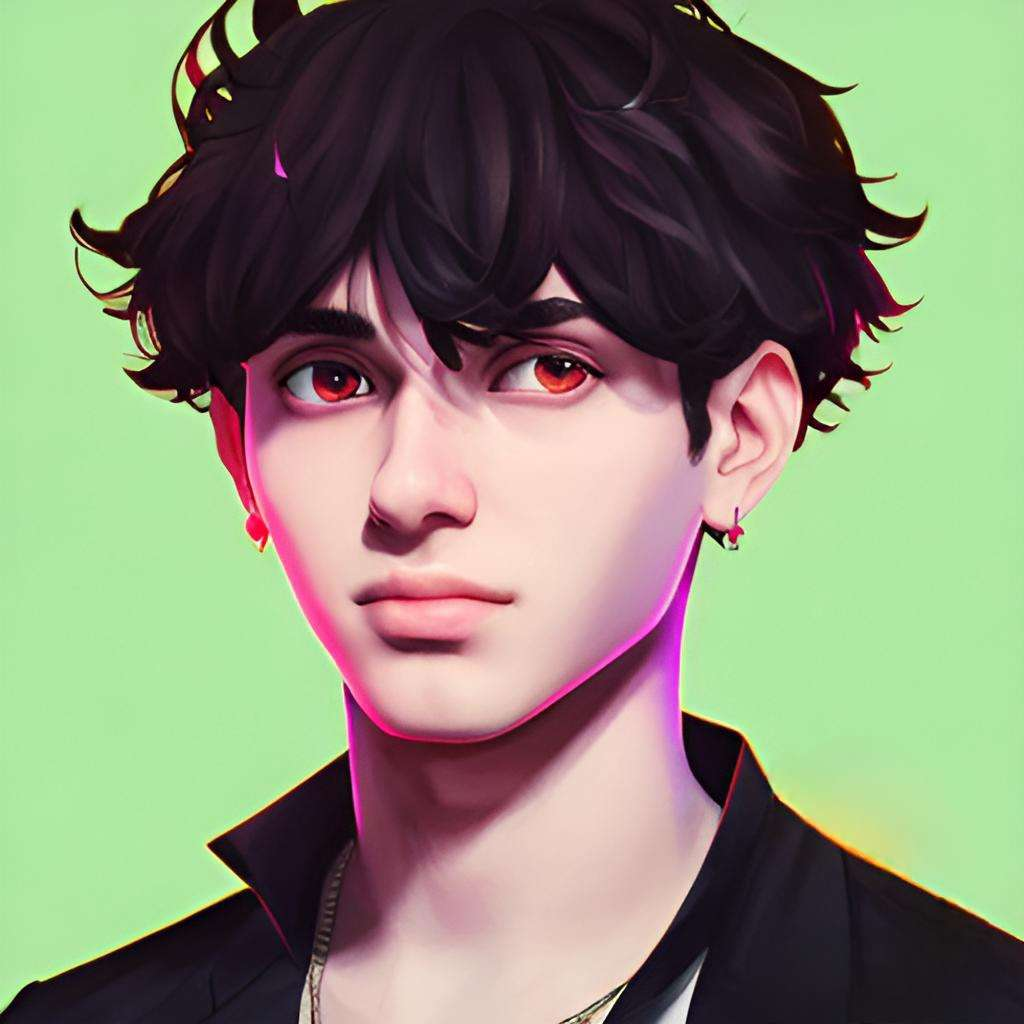
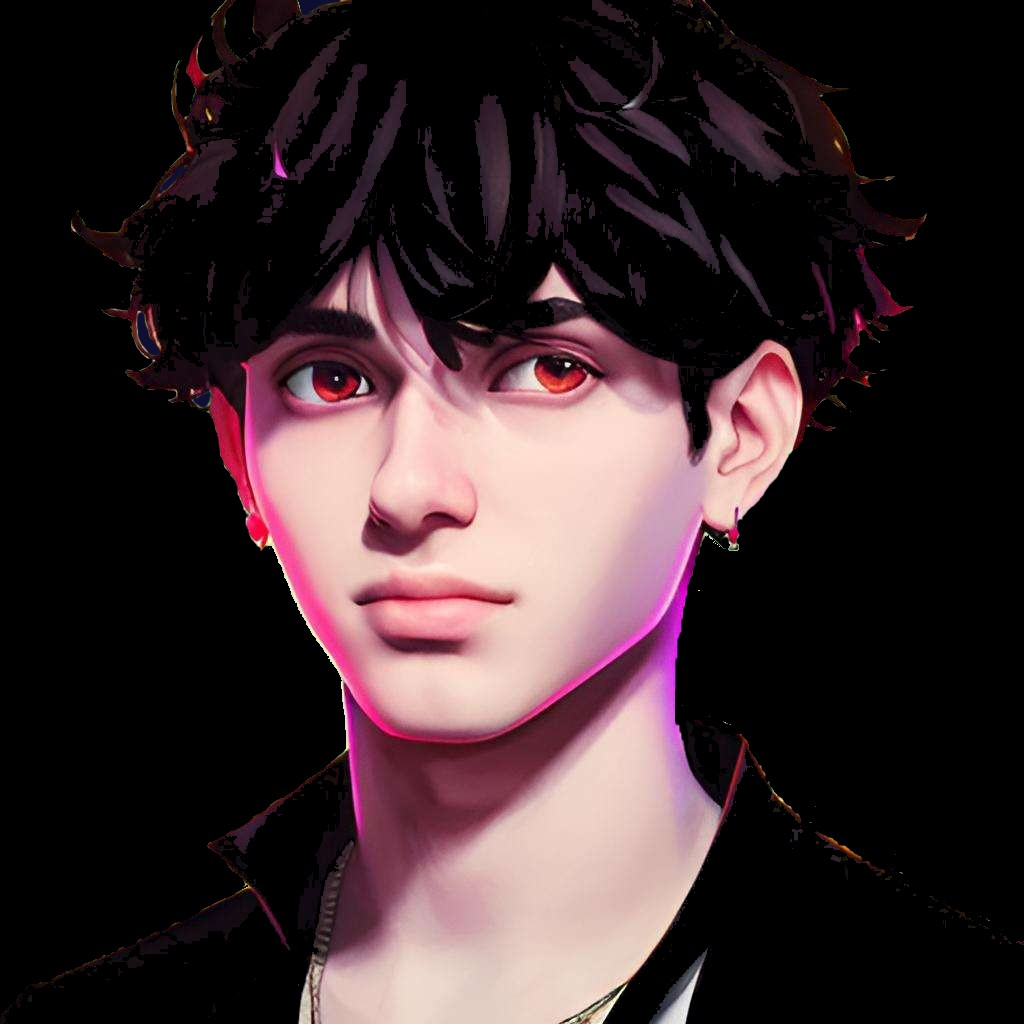
modif interface et skills

diff --git a/src/components/Skills/skills.css b/src/components/Skills/skills.css
@@ -1,0 +1,81 @@
+.container {
+    display: flex;
+    flex-direction: column;
+    justify-content: center;
+    position: relative;
+    z-index: 1;
+    align-items: center;
+    background: #0e0e33;
+
+}
+
+.wrapper {
+    position: relative;
+    display: flex;
+    justify-content: space-between;
+    align-items: center;
+    flex-direction: column;
+    width: 100%;
+    max-width: 1100px;
+    gap: 12px;
+}
+
+.desc {
+    font-size: 18px;
+    text-align: center;
+    max-width: 600px;
+    color: #1894ec;
+}
+
+.skills-container {
+    width: 100%;
+    display: flex;
+    flex-wrap: wrap;
+    margin-top: 30px;
+    gap: 30px;
+    justify-content: center;
+}
+
+.skill {
+    width: 100%;
+    max-width: 500px;
+    background: linear-gradient(180deg, #020233 0%, #3cb1ff 100%);
+    border: 1px solid #020233;
+    box-shadow: rgba(23, 92, 230, 0.15) 0px 4px 24px;
+    border-radius: 16px;
+    padding: 18px 36px;
+}
+
+.skill-title {
+    font-size: 28px;
+    font-weight: 600;
+    color: #ffffff;
+    margin-bottom: 20px;
+    text-align: center;
+}
+
+.skill-list {
+    display: flex;
+    justify-content: center;
+    flex-wrap: wrap;
+    gap: 12px;
+    margin-bottom: 20px;
+}
+
+.skill-item {
+    font-size: 16px;
+    font-weight: 400;
+    color: #ffffff;
+    border: 1px solid #666;
+    border-radius: 12px;
+    padding: 12px 16px;
+    display: flex;
+    align-items: center;
+    justify-content: center;
+    gap: 8px;
+}
+
+.skill-image {
+    width: 24px;
+    height: 24px;
+}

diff --git a/src/components/Skills/index.js b/src/components/Skills/index.js
@@ -1,8 +1,31 @@
-import React from "react";
+import React from 'react';
+import "./skills.css";
+import { skills } from '../../data/constants';
 
 const Skills = () => {
-    return <div>Skills</div>;
-    
-    };
+    return (
+        <div className="container" id="skills">
+            <div className="wrapper">
+                <div className="title">Skills</div>
+                <div className="desc">Here are some of my skills on which I have been working on for the past 2 years.</div>
+                <div className="skills-container">
+                    {skills.map((skill, index) => (
+                        <div className="skill" key={index}>
+                            <h2 className="skill-title">{skill.title}</h2>
+                            <div className="skill-list">
+                                {skill.skills.map((item, itemIndex) => (
+                                    <div className="skill-item" key={itemIndex}>
+                                        <img className="skill-image" src={item.image} alt={item.name} />
+                                        {item.name}
+                                    </div>
+                                ))}
+                            </div>
+                        </div>
+                    ))}
+                </div>
+            </div>
+        </div>
+    );
+};
 
 export default Skills;

diff --git a/src/components/NavBar/navbar.css b/src/components/NavBar/navbar.css
@@ -1,5 +1,5 @@
 .nav {
-    background: #191924;
+    background: #0e0e33;
     height: 80px;
     display: flex;
     justify-content: center;
@@ -64,7 +64,7 @@
 }
 
 .nav-link:hover {
-    color: #854CE6;
+    color: #1894ec;
 }
 
 .button-container {
@@ -78,8 +78,8 @@
 
 .github-button {
     background-color: transparent;
-    color: #854CE6;
-    border: 1.8px solid #854CE6;
+    color: #1894ec;
+    border: 1.8px solid #1894ec;
     text-decoration: none;
     border-radius: 20px;
     display: flex;
@@ -93,7 +93,7 @@
 }
 
 .github-button:hover {
-    background-color: #854CE6;
+    background-color: #1894ec;
     color: #b1b2b3;
 }
 

diff --git a/src/components/Home/home.css b/src/components/Home/home.css
@@ -1,9 +1,12 @@
 .home-container {
-    background: #191924;
+    background: #0e0e33;
     display: flex;
     justify-content: center;
     position: relative;
     padding: 80px 30px;
+    height: 100vh;
+
+
 }
 
 .home-bg {
@@ -59,7 +62,7 @@
     font-size: 20px;
     line-height: 32px;
     margin-bottom: 42px;
-    color: #854CE6;
+    color: #1894ec;
 }
 
 .image {
@@ -68,7 +71,7 @@
     max-width: 500px;
     max-height: 500px;
     border-radius: 50%;
-    border: 2px solid #854CE6;
+    border: 2px solid #1894ec;
 }
 
 @media (max-width: 768px) {

diff --git a/src/components/Home/index.js b/src/components/Home/index.js
@@ -1,6 +1,6 @@
 import React from "react";
 import { Bio } from "../../data/constants";
-import HomeImg from "../../assets/img/me.jpg";
+import HomeImg from "../../assets/img/me2.jpg";
 import "./home.css";
 
 const Home = () => {
